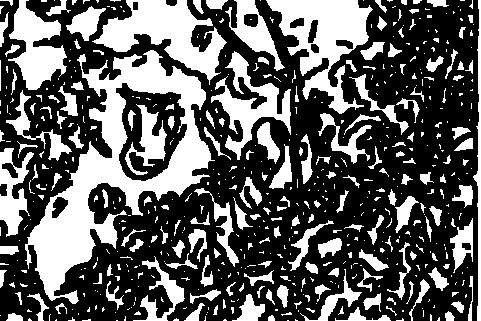
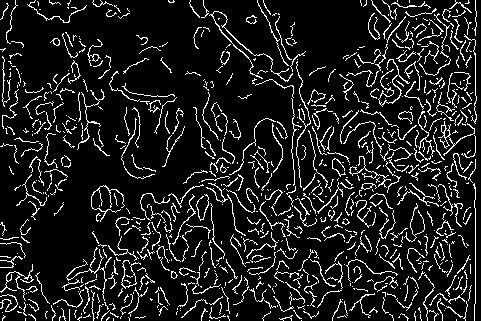
filled yarısı yok

diff --git a/main.py b/main.py
@@ -1,28 +1,63 @@
 import cv2
 import numpy as np
+import cv2
+import numpy as np
 from matplotlib import pyplot as plt
-kernel = np.ones((5,5),np.uint8)
+from scipy import ndimage
+from skimage.feature import peak_local_max
+from skimage.morphology import watershed
+from matplotlib import pyplot as plt
 
-img = cv2.imread(r"D:\maymun.jpg")
+kernel = np.ones((5, 5), np.uint8)
+img = cv2.imread(r"D:\maymun.jpg", 0)
 img = cv2.GaussianBlur(img, (11, 11), 0)
-
 img = cv2.Canny(img, 0, 50)
 
-# img = cv2.addWeighted(img, 48, cv2.blur(img, (60, 30)), -4, 40)
-
-img = cv2.morphologyEx(img, cv2.MORPH_DILATE, kernel)
-img = cv2.bitwise_not(img)
 cv2.imwrite('keni.jpg',img)
-cv2.imshow("Canny", img)
+img = cv2.dilate(img, kernel, iterations=1)
 
+img_erosion = cv2.erode(img, kernel, iterations=1)
+img_dilation = cv2.dilate(img, kernel, iterations=1)
 
+img_open = cv2.dilate(cv2.erode(img, kernel, iterations=1), kernel, iterations=1)
+
+img_close = cv2.erode(cv2.dilate(img, kernel, iterations=2), kernel, iterations=2)
+
+# Threshold
+th, im_th = cv2.threshold(img, 0, 90, cv2.THRESH_BINARY)
+
+# Copy the thresholded image
+im_floodfill = im_th.copy()
+
+# Mask used to flood filling.
+# NOTE: the size needs to be 2 pixels bigger on each side than the input image
+h, w = im_th.shape[:2]
+mask = np.zeros((h + 2, w + 2), np.uint8)
+
+# Floodfill from point (0, 0)
+cv2.floodFill(im_floodfill, mask, (150, 150), 255)
+
+# Invert floodfilled image
+im_floodfill_inv = cv2.bitwise_not(im_floodfill)
+
+# Combine the two images to get the foreground
+im_out = im_th | im_floodfill_inv
+
+cv2.imwrite('bilmem.jpg',im_out)
+cv2.imshow("Result", im_out)
+
+# img = cv2.imread(r"D:\maymun.jpg")
+# b, g, r = cv2.split(img)
+# plt.hist(b.ravel(), 256, [0, 256])
+# plt.hist(g.ravel(), 256, [0, 256])
+# plt.hist(r.ravel(), 256, [0, 256])
+# plt.show()
 
 
 cv2.waitKey(0)
 cv2.destroyAllWindows()
 
-
-#ADIMLAR ONEMLI
+# ADIMLAR ONEMLI
 # İlk aşama canny 0,50
 # İkinci aşama Açma Kapama
 # Üçüncü aşama alttaki fill
@@ -33,12 +68,6 @@ cv2.destroyAllWindows()
 # https://docs.opencv.org/trunk/d9/d61/tutorial_py_morphological_ops.html
 
 
-# import cv2
-# import numpy as np
-# from matplotlib import pyplot as plt
-# from scipy import ndimage
-# from skimage.feature import peak_local_max
-# from skimage.morphology import watershed
 #
 #
 # im_in = cv2.imread("deneme.jpg", cv2.IMREAD_GRAYSCALE)
